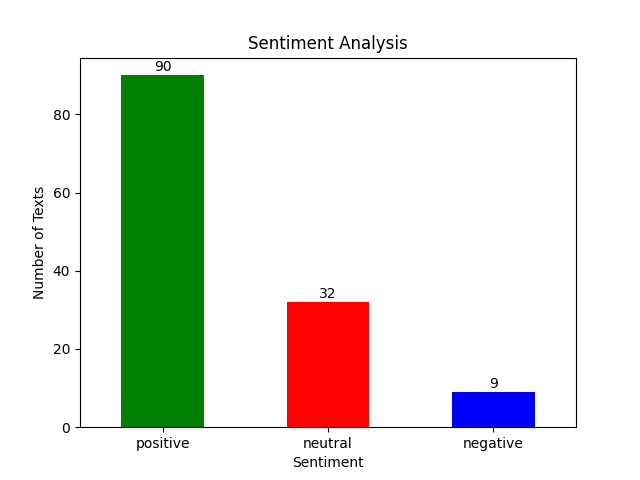
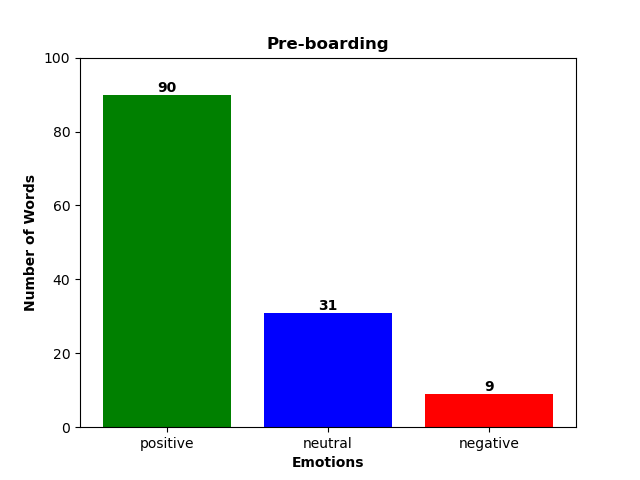
final changes, updated images with bold text and a fixed graphic of 100 words

diff --git a/main.py b/main.py
@@ -36,7 +36,7 @@ df.loc[df['compound'] < -0.05, 'sentiment'] = 'negative'
 print(df['sentiment'].value_counts())
 
 # Save to CSV file
-# df.to_csv(r"3.1-sentiment-first-day.csv", index=False)
+df.to_csv(r"3.1-sentiment-first-day.csv", index=False)
 
 # Count sentiments
 sentiment_counts = df['sentiment'].value_counts()
@@ -45,14 +45,11 @@ sentiment_counts = df['sentiment'].value_counts()
 categories = ['positive', 'neutral', 'negative']
 counts = [sentiment_counts.get(category, 0) for category in categories]
 
-# Replace categories with emojis
-emoji_categories = ['😊', '😐', '🙁']
-
 # Plot the results
 fig, ax = plt.subplots()
 
 # Add bars
-bars = ax.bar(emoji_categories, counts, color=['green', 'blue', 'red'])
+bars = ax.bar(categories, counts, color=['green', 'blue', 'red'])
 
 # Add text labels above the bars
 for bar in bars:
